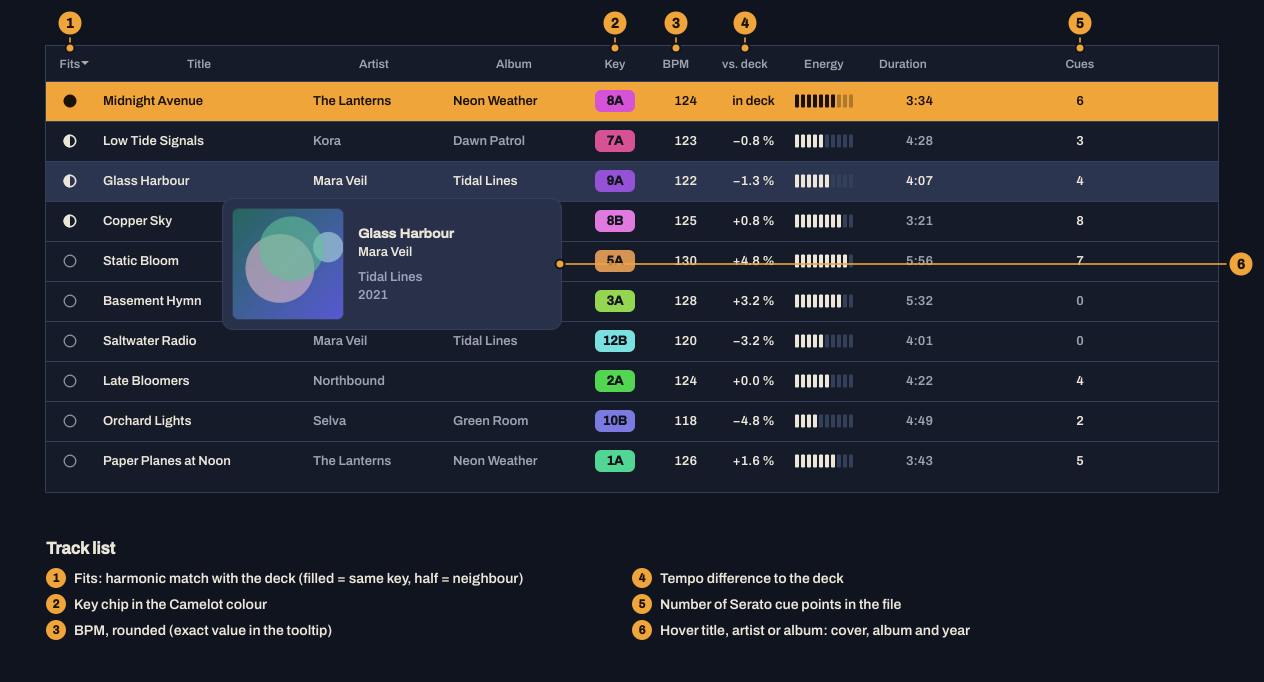
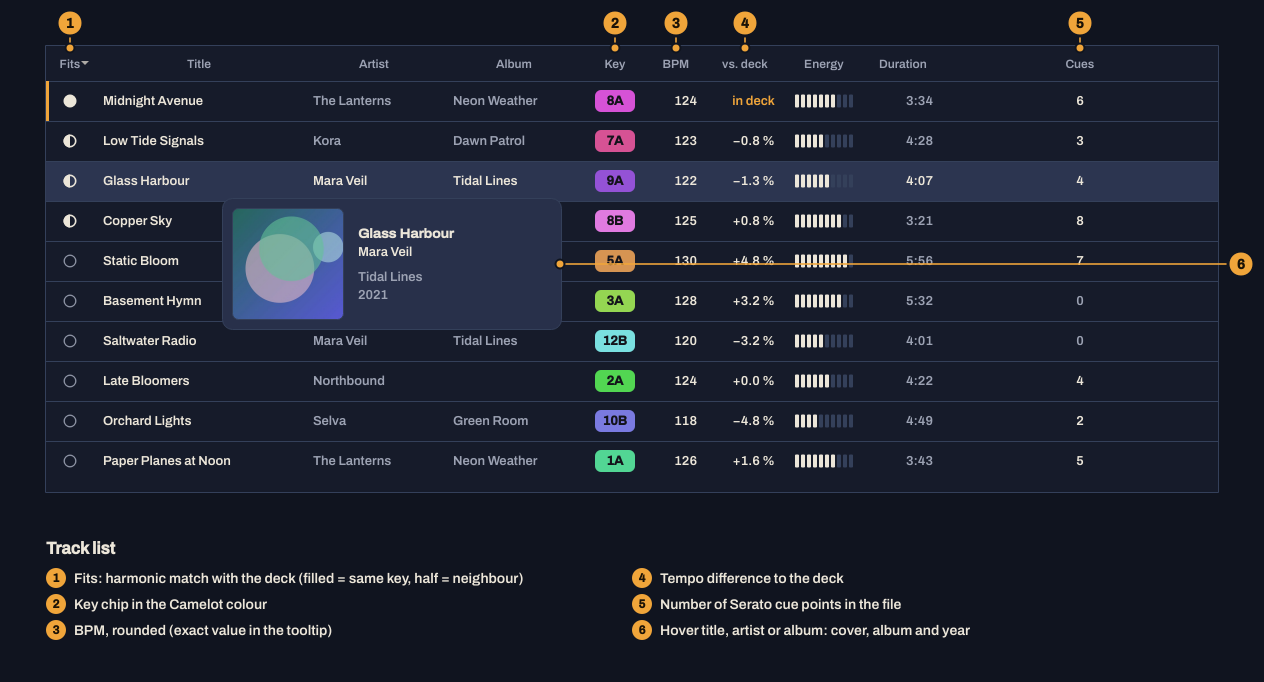
Revert "Track list: the deck's track as a row in the accent colour" (PR #20)
The accent row left stale colours behind: when the deck changes, only some
columns of the old and new deck rows were repainted. Back to the previous
look (thin accent marker on the left, "in deck" in accent).

Claude-Session: https://claude.ai/code/session_01WHPo8iWepkYybUHWQj5Dcp

Changed region(s): [[0.0309, 0.1232, 0.9873, 0.1848]]

diff --git a/keytool/gui/widgets.py b/keytool/gui/widgets.py
@@ -193,7 +193,7 @@ class TrackModel(QAbstractTableModel):
                 return -1.0 if is_deck else (abs(d) if d is not None else 1e9)
             if role == Qt.ForegroundRole:
                 if is_deck:
-                    return QColor("#1A1206" if self.dark else "#FFFFFF")
+                    return QColor("#F0A53A" if self.dark else "#B4650A")
                 if d is not None and abs(d) > 6:
                     return QColor("#8D93A4" if self.dark else "#6B7385")
             if role == Qt.TextAlignmentRole:
@@ -240,8 +240,6 @@ class TrackModel(QAbstractTableModel):
         if role == ID_ROLE:
             return r["id"]
         if role == Qt.ForegroundRole:
-            if is_deck:                                    # the deck's track: text on the accent background
-                return QColor("#1A1206" if self.dark else "#FFFFFF")
             if col in ("artist", "album", "duration", "year", "ext", "bitrate", "analyzed_ok_at", "path", "genre"):
                 return QColor("#9CA2B3" if self.dark else "#535B6E")
             if col == "cues" and not v:
@@ -300,20 +298,6 @@ class TrackDelegate(QStyledItemDelegate):
         from PySide6.QtGui import QPen
         from .theme import CHIP_TEXT
         col = self.m.COLUMNS[index.column()]
-        deck = bool(index.data(DECK_ROLE))
-        if deck:
-            # the track in the deck: whole row tinted with the accent colour and its text in accent, also while
-            # selected (the selection then shows as a stronger tint instead of the normal selection colour)
-            from .theme import THEMES
-            c = THEMES["dark" if self.m.dark else "light"]
-            selected = bool(option.state & QStyle.State_Selected)
-            bg = QColor(c["accent"])
-            if selected:                                     # selection: a slightly deeper accent
-                bg = bg.darker(112) if self.m.dark else bg.lighter(112)
-            painter.fillRect(option.rect, bg)
-            option = QStyleOptionViewItem(option)
-            option.state &= ~QStyle.State_Selected
-            option.palette.setColor(QPalette.Text, QColor(c["accent_text"]))
         if col not in ("fit", "key", "energy"):
             super().paint(painter, option, index)
         else:
@@ -326,8 +310,6 @@ class TrackDelegate(QStyledItemDelegate):
         pal = option.palette
         text_col = pal.color(QPalette.Text)
         line_col = QColor("#34405A" if self.m.dark else "#CDD2DD")
-        if deck:                                             # empty energy bars on the accent background
-            line_col = QColor(text_col); line_col.setAlphaF(0.3)
         r = QRectF(option.rect)
         painter.save()
         painter.setRenderHint(QPainter.Antialiasing)
@@ -374,6 +356,10 @@ class TrackDelegate(QStyledItemDelegate):
                 for i in range(10):
                     painter.setBrush(text_col if i < int(e) else line_col)
                     painter.drawRoundedRect(QRectF(x0 + i * (bw + gap), y0, bw, bh), 1, 1)
+        if index.column() == 0 and index.data(DECK_ROLE):
+            painter.setPen(Qt.NoPen)
+            painter.setBrush(QColor("#F0A53A" if self.m.dark else "#B4650A"))
+            painter.drawRect(QRectF(r.left(), r.top(), 3, r.height()))
         painter.restore()
 
 

diff --git a/tests/test_deck_columns.py b/tests/test_deck_columns.py
@@ -59,38 +59,3 @@ def test_bpm_shown_rounded_with_exact_tooltip():
     assert [m.data(m.index(i, col)) for i in range(3)] == ["125", "127", ""]
     assert m.data(m.index(1, col), Qt.ToolTipRole).startswith("127.49 BPM")
     assert m.data(m.index(1, col), SORT_ROLE) == 127.49                     # sorting keeps the exact value
-
-
-def test_deck_row_text_uses_the_accent_text_colour():
-    QApplication.instance() or QApplication([])
-    from keytool.gui.theme import THEMES
-    m = TrackModel()
-    m.set_rows([dict(id=1, title="Deck", artist="A", key=code("8A"), bpm=124.0, path="a"),
-                dict(id=2, title="Other", artist="B", key=code("9A"), bpm=125.0, path="b")])
-    m.set_deck(1, code("8A"), 124.0)
-    for dark in (True, False):
-        m.dark = dark
-        want = THEMES["dark" if dark else "light"]["accent_text"].lower()
-        for col in ("title", "artist", "bpm", "delta"):
-            c = m.COLUMNS.index(col)
-            assert m.data(m.index(0, c), Qt.ForegroundRole).name() == want, col
-        assert m.data(m.index(1, m.COLUMNS.index("title")), Qt.ForegroundRole) is None
-
-
-def test_deck_row_is_painted_in_accent(tmp_path):
-    from PySide6.QtWidgets import QTableView
-    from keytool.gui.theme import THEMES
-    from keytool.gui.widgets import TrackDelegate
-    QApplication.instance() or QApplication([])
-    m = TrackModel()
-    m.set_rows([dict(id=1, title="Deck", key=code("8A"), bpm=124.0, path="a"),
-                dict(id=2, title="Other", key=code("9A"), bpm=125.0, path="b")])
-    m.set_deck(1, code("8A"), 124.0)
-    v = QTableView(); v.setModel(m); v.setItemDelegate(TrackDelegate(m, v)); v.resize(900, 200); v.show()
-    QApplication.processEvents()
-    img = v.viewport().grab().toImage()
-    col = m.COLUMNS.index("duration")
-    r = v.visualRect(m.index(0, col))
-    assert img.pixelColor(r.center()).name() == THEMES["dark"]["accent"].lower()
-    r2 = v.visualRect(m.index(1, col))
-    assert img.pixelColor(r2.center()).name() != THEMES["dark"]["accent"].lower()

diff --git a/README.md b/README.md
@@ -28,7 +28,7 @@ More annotated screenshots are in [Screenshots](#screenshots) below.
 | Transpose | Play one semitone higher (+1) or lower (−1) at the original tempo (Rubber Band via pedalboard); positions and cue points stay valid |
 | Serato cues | Existing Serato DJ hot cues (colour, name) and saved loops are read from the files (MP3, WAV, FLAC, M4A; OGG where possible) and shown in the waveform; clicking a cue flag or Alt+1…8 jumps to it |
 | Waveform | Overview of the deck track, coloured by frequency band (bass blue, mids amber, highs white), click/drag to seek, bar ticks from the BPM |
-| Fits the deck | "Fits" column (● same key, ◐ harmonic neighbour ±1 or relative major/minor, ○ does not fit, transposition included) and "vs. deck" (tempo difference in %, dimmed beyond ±6 %); both sortable. The track in the deck is shown as a row in the accent colour |
+| Fits the deck | "Fits" column (● same key, ◐ harmonic neighbour ±1 or relative major/minor, ○ does not fit, transposition included) and "vs. deck" (tempo difference in %, dimmed beyond ±6 %); both sortable |
 | User interface | English, German, Spanish, French, Italian (in the settings; numbers, dates and key names such as "a-Moll" / "La menor" / "la mineur" follow the language), light and dark mode (or system), switch without restarting; Archivo typeface (SIL OFL, bundled), colour only for keys, amber for playback |
 | MCP server | Full access: search, details, keywords, set values, write tags, import & analyse folders |
 
